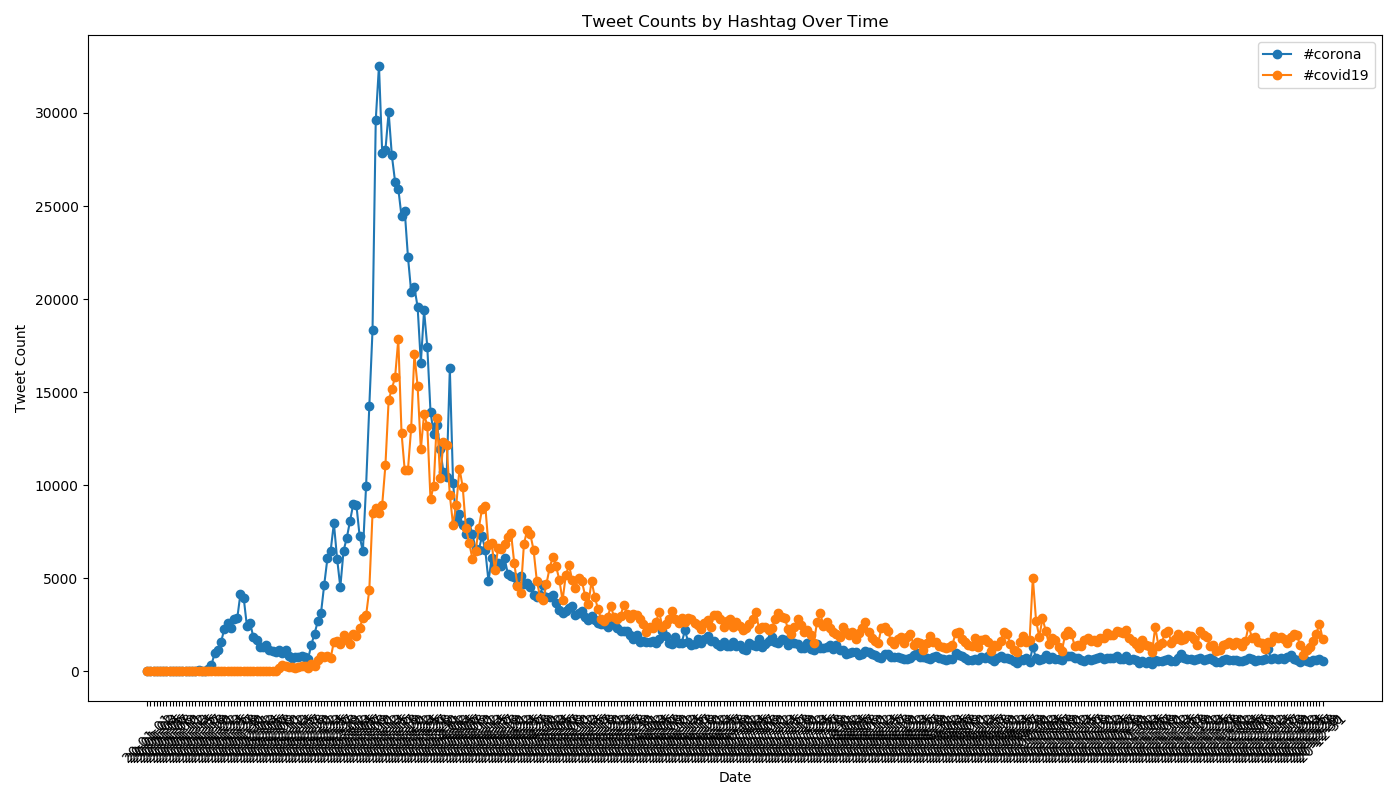
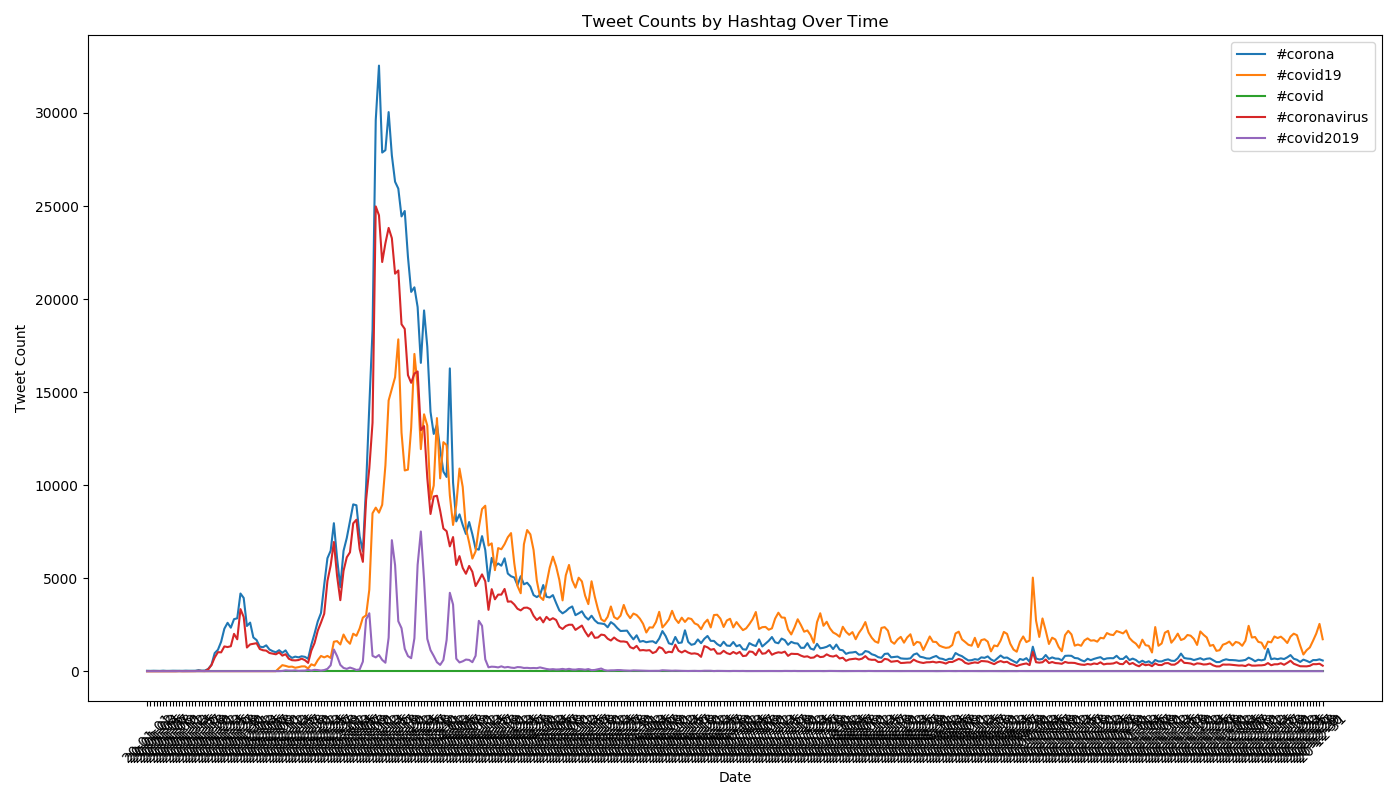
graph

Changed region(s): [[0.0921, 0.2812, 0.9521, 0.8438], [0.8907, 0.0625, 0.9829, 0.1875], [0.2764, 0.2188, 0.3071, 0.2812]]

diff --git a/src/alternative_reduce.py b/src/alternative_reduce.py
@@ -36,7 +36,7 @@ plt.figure(figsize=(14, 8))
 for hashtag, dates_counts in total.items():
     dates_sorted = sorted(dates_counts.keys())
     counts = [dates_counts[date] for date in dates_sorted]
-    plt.plot(dates_sorted, counts, label=hashtag, marker='o')
+    plt.plot(dates_sorted, counts, label=hashtag)
 
 plt.xlabel('Date')
 plt.ylabel('Tweet Count')
